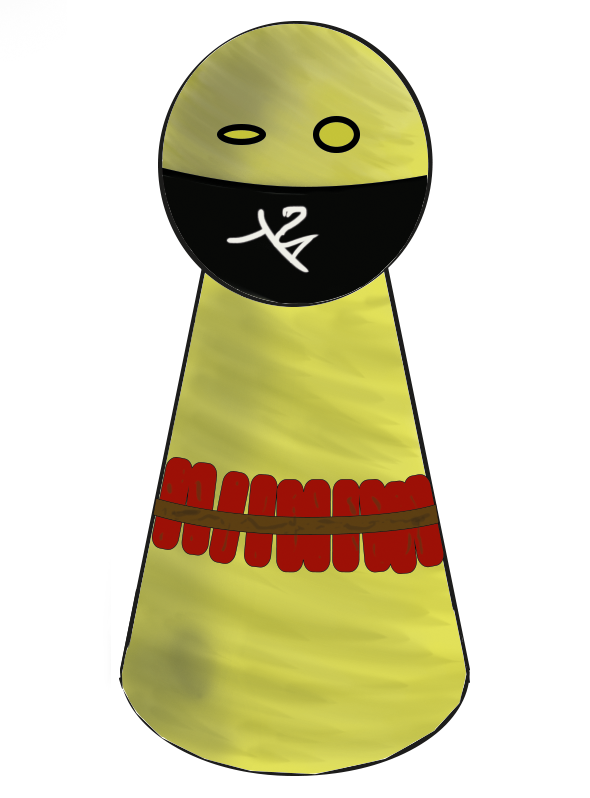
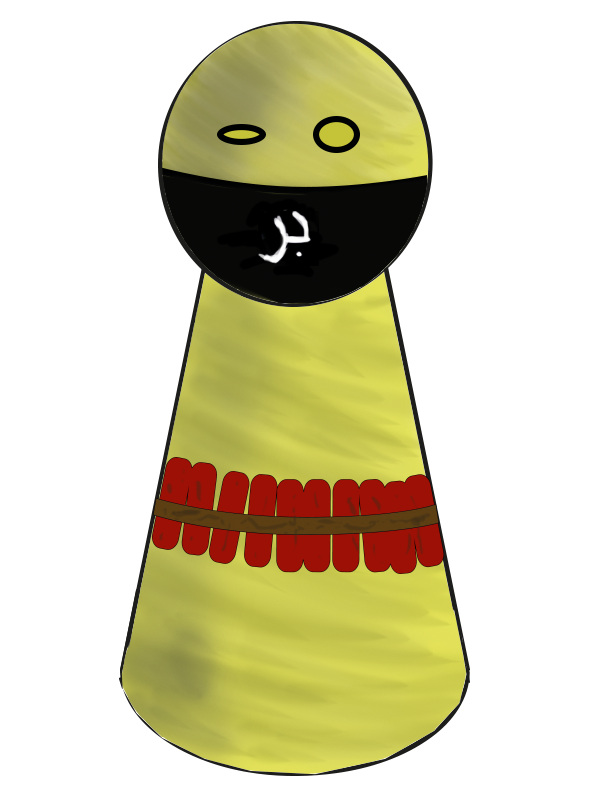
Changelog:
EventHandler: spielbrettGUI-Typ ind JLayeredPane geändert

GUI: mitte in JLayeredPane geändert und Ebenenstruktur für Buttons
eingefügt, sodass sich die Buttons nun korrekt überschneiden

Gelbe Figuren: Arabischer Schriftzug von kulturunsensibel zu
Kultursensibel geändert! :)

Alle Figuren: Animierte Grafiken eingefügt, um UserFeedback zu
verbessern, müssen allerdings noch implementiert werden!

Changed region(s): [[0.3966, 0.2406, 0.5492, 0.3609]]

diff --git a/MADN/src/GUI/GUI.java b/MADN/src/GUI/GUI.java
@@ -11,6 +11,8 @@ import java.util.HashMap;
 
 import javax.swing.*;
 
+import java.awt.Color;
+
 import Spiel.ButtonsNavi;
 
 
@@ -31,7 +33,7 @@ public class GUI {
 	private JPanel sueden = new JPanel();
 	private JPanel osten = new JPanel();
 	private JPanel westen = new JPanel();
-	private JPanel mitte = new JPanel();
+	private JLayeredPane mitte = new JLayeredPane();
 	private JTextArea console = new JTextArea(8,100);
 	private JFileChooser dateiGrabber = new JFileChooser();
 
@@ -518,7 +520,8 @@ public class GUI {
 		frame.getContentPane().add(westen, BorderLayout.WEST);
 	}
 	private void createPanelCENTER() {
-		mitte.setLayout(null);
+		//mitte.setLayout(null);
+		this.mitte = new JLayeredPane();
 		setStandardFieldPositions(90,121);
 		setStartFieldPositions(90,121);
 		setEndFieldPositions(90,121);
@@ -538,9 +541,85 @@ public class GUI {
 		    JButton value = entry.getValue();
 		    mitte.add(value);
 		}
-	    mitte.add(labelMap.get("game"));
+		mitte.add(labelMap.get("game"));
 		labelMap.get("game").setBounds(0,0,975, 875);
-		frame.getContentPane().add(mitte,BorderLayout.CENTER);
+		//this.pane = new JLayeredPane();
+		//mitte.add(pane);
+		mitte.setPreferredSize(new Dimension(975,875));
+		mitte.add(startMap.get("S1ROT"), new Integer(2));
+		mitte.add(startMap.get("S2ROT"), new Integer(2));
+		mitte.add(startMap.get("S3ROT"), new Integer(3));
+		mitte.add(startMap.get("S4ROT"), new Integer(3));
+		mitte.add(startMap.get("S1BLAU"), new Integer(2));
+		mitte.add(startMap.get("S2BLAU"), new Integer(2));
+		mitte.add(startMap.get("S3BLAU"), new Integer(3));
+		mitte.add(startMap.get("S4BLAU"), new Integer(3));
+		mitte.add(startMap.get("S1GRUEN"), new Integer(10));
+		mitte.add(startMap.get("S2GRUEN"), new Integer(10));
+		mitte.add(startMap.get("S3GRUEN"), new Integer(11));
+		mitte.add(startMap.get("S4GRUEN"), new Integer(11));
+		mitte.add(startMap.get("S1GELB"), new Integer(10));
+		mitte.add(startMap.get("S2GELB"), new Integer(10));
+		mitte.add(startMap.get("S3GELB"), new Integer(11));
+		mitte.add(startMap.get("S4GELB"), new Integer(11));
+		mitte.add(endMap.get("E4GELB"), new Integer(7));
+		mitte.add(endMap.get("E3GELB"), new Integer(8));
+		mitte.add(endMap.get("E2GELB"), new Integer(9));
+		mitte.add(endMap.get("E1GELB"), new Integer(10));
+		mitte.add(sMap.get("1"), new Integer(5));
+		mitte.add(sMap.get("2"), new Integer(5));
+		mitte.add(sMap.get("3"), new Integer(5));
+		mitte.add(sMap.get("4"), new Integer(5));
+		mitte.add(sMap.get("9"), new Integer(1));
+		mitte.add(sMap.get("8"), new Integer(2));
+		mitte.add(sMap.get("7"), new Integer(3));
+		mitte.add(sMap.get("6"), new Integer(5));
+		mitte.add(sMap.get("5"), new Integer(5));
+		mitte.add(endMap.get("E1ROT"), new Integer(6));
+		mitte.add(endMap.get("E2ROT"), new Integer(6));
+		mitte.add(endMap.get("E3ROT"), new Integer(6));
+		mitte.add(endMap.get("E4ROT"), new Integer(6));
+		mitte.add(sMap.get("10"), new Integer(1));
+		mitte.add(sMap.get("11"), new Integer(1));
+		mitte.add(endMap.get("E1BLAU"), new Integer(2));
+		mitte.add(endMap.get("E2BLAU"), new Integer(3));
+		mitte.add(endMap.get("E3BLAU"), new Integer(4));
+		mitte.add(endMap.get("E4BLAU"), new Integer(5));
+		mitte.add(sMap.get("12"), new Integer(3));
+		mitte.add(sMap.get("13"), new Integer(4));
+		mitte.add(sMap.get("14"), new Integer(5));
+		mitte.add(sMap.get("15"), new Integer(5));
+		mitte.add(sMap.get("16"), new Integer(5));
+		mitte.add(sMap.get("17"), new Integer(5));
+		mitte.add(sMap.get("18"), new Integer(5));
+		mitte.add(sMap.get("19"), new Integer(5));
+		mitte.add(endMap.get("E1GRUEN"), new Integer(6));
+		mitte.add(endMap.get("E2GRUEN"), new Integer(6));
+		mitte.add(endMap.get("E3GRUEN"), new Integer(6));
+		mitte.add(endMap.get("E4GRUEN"), new Integer(6));
+		mitte.add(sMap.get("20"), new Integer(6));
+		mitte.add(sMap.get("21"), new Integer(7));
+		mitte.add(sMap.get("22"), new Integer(7));
+		mitte.add(sMap.get("23"), new Integer(7));
+		mitte.add(sMap.get("24"), new Integer(7));
+		mitte.add(sMap.get("25"), new Integer(7));
+		mitte.add(sMap.get("26"), new Integer(8));
+		mitte.add(sMap.get("27"), new Integer(9));
+		mitte.add(sMap.get("28"), new Integer(10));
+		mitte.add(sMap.get("29"), new Integer(11));
+		mitte.add(sMap.get("30"), new Integer(11));	
+		mitte.add(sMap.get("34"), new Integer(8));		
+		mitte.add(sMap.get("33"), new Integer(9));
+		mitte.add(sMap.get("32"), new Integer(10));
+		mitte.add(sMap.get("31"), new Integer(11));
+		mitte.add(sMap.get("35"), new Integer(7));
+		mitte.add(sMap.get("36"), new Integer(7));
+		mitte.add(sMap.get("37"), new Integer(7));
+		mitte.add(sMap.get("38"), new Integer(7));
+		mitte.add(sMap.get("39"), new Integer(7));
+		mitte.add(sMap.get("40"), new Integer(6));
+		frame.getContentPane().add(mitte, BorderLayout.CENTER);
+		
 	}
 	
 	public void makeVisible(){

diff --git a/MADN/src/GUI/Eventhandler.java b/MADN/src/GUI/Eventhandler.java
@@ -20,6 +20,7 @@ import javax.swing.JComboBox;
 import javax.swing.JFileChooser;
 import javax.swing.JFrame;
 import javax.swing.JLabel;
+import javax.swing.JLayeredPane;
 import javax.swing.JOptionPane;
 import javax.swing.JPanel;
 import javax.swing.JRadioButton;
@@ -34,7 +35,7 @@ import Spiel.iBediener;
 import Spiel.iDatenzugriff;
 
 public class Eventhandler implements ActionListener {
-	private JPanel spielbrettGUI = null;
+	private JLayeredPane spielbrettGUI = null;
 	private iBediener myGame = new Spiel();
 	private GUI myGUI = null;
 	private iDatenzugriff saveSer = new DatenzugriffSerialisiert();
@@ -68,7 +69,7 @@ public class Eventhandler implements ActionListener {
 			HashMap<String, ImageIcon> imagesMap,
 			HashMap<String, JButton> stdFieldsMap,
 			HashMap<String, JButton> startFieldsMap,
-			HashMap<String, JButton> endFieldsMap, JFileChooser fileGrabber, JPanel spielbrettGUI, GUI myGui) {
+			HashMap<String, JButton> endFieldsMap, JFileChooser fileGrabber, JLayeredPane spielbrettGUI, GUI myGui) {
 		if (naviMap == null || fileGrabber == null || labelMap == null
 				|| imagesMap == null || stdFieldsMap == null
 				|| startFieldsMap == null || endFieldsMap == null)
